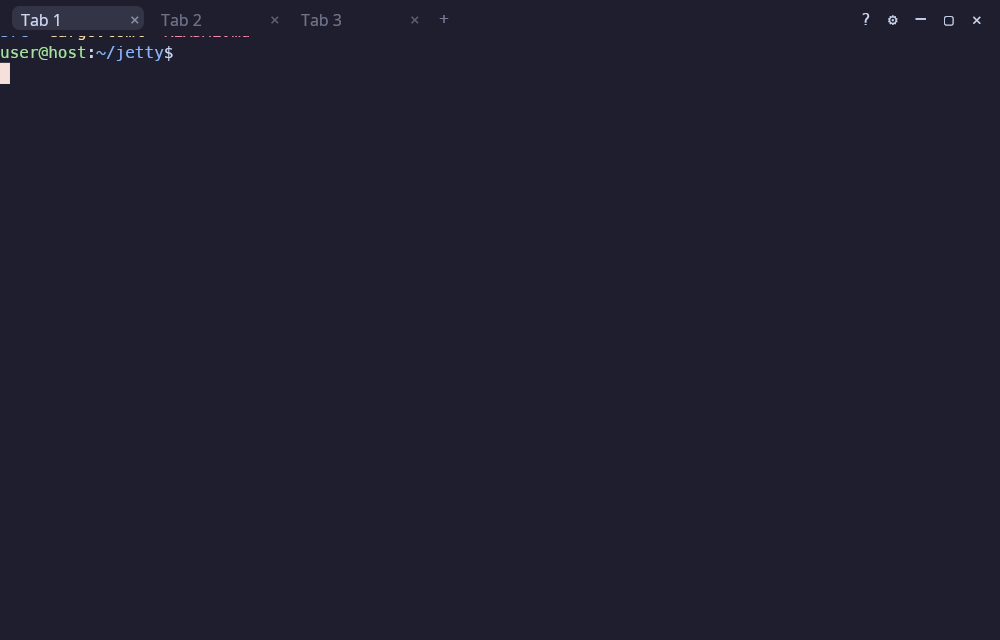
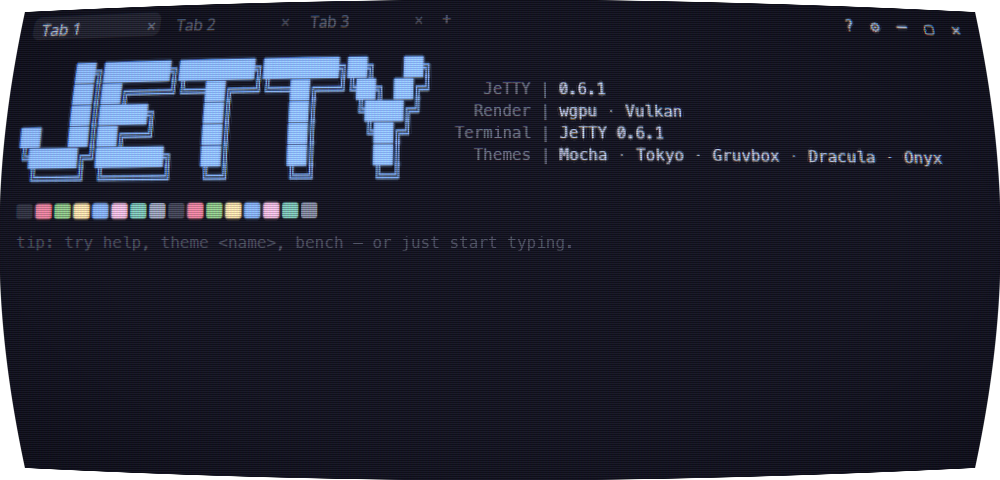
docs(screenshots): CRT neofetch hero + CRT showcase; jetty-shot gains a CRT hook
- jetty-shot: new JETTY_SHOT_CRT post-process pass (mirrors the Tier-B sample→
  readback pattern) so the CRT look can be captured headlessly; params via
  JETTY_SHOT_CRT_* env.
- hero.png: the neofetch-style welcome splash under the real CRT effect
  (curvature/scanlines/bloom/vignette) — a proper landing image.
- crt.png: CRT over a colorful dev session, added to the README screenshots.
- README: add a "Visual effects" feature bullet (CRT + caret), drop the stale
  "screenshots pending regeneration" note.

Claude-Session: https://claude.ai/code/session_01P5Hns5NnhtKtvKWA9XUAxx

diff --git a/crates/jetty-app/src/bin/jetty-shot.rs b/crates/jetty-app/src/bin/jetty-shot.rs
@@ -565,6 +565,50 @@ fn main() -> Result<(), Box<dyn std::error::Error>> {
         None
     };
 
+    // --- CRT post-process (JETTY_SHOT_CRT) ---
+    // Run the REAL CRT GPU pass (curvature/scanlines/shadow-mask/bloom/chromatic/
+    // vignette) onto a SECOND texture, sampling the rendered scene — mirroring the
+    // Tier-B sample-then-readback pattern. Lets the harness capture the CRT look
+    // headlessly (e.g. the neofetch hero). Params are env-overridable.
+    let crt_tex = if std::env::var("JETTY_SHOT_CRT").is_ok() {
+        let getf = |k: &str, d: f32| std::env::var(k).ok().and_then(|s| s.parse::<f32>().ok()).unwrap_or(d);
+        let ct = device.create_texture(&wgpu::TextureDescriptor {
+            label: Some("jetty-shot-crt"),
+            size: wgpu::Extent3d { width, height, depth_or_array_layers: 1 },
+            mip_level_count: 1,
+            sample_count: 1,
+            dimension: wgpu::TextureDimension::D2,
+            format,
+            usage: wgpu::TextureUsages::RENDER_ATTACHMENT | wgpu::TextureUsages::COPY_SRC,
+            view_formats: &[],
+        });
+        let ct_view = ct.create_view(&wgpu::TextureViewDescriptor::default());
+        // Sample the current scene: the Tier-B output if one ran, else the frame.
+        let src_view = match &tier_b_tex {
+            Some(t) => t.create_view(&wgpu::TextureViewDescriptor::default()),
+            None => texture.create_view(&wgpu::TextureViewDescriptor::default()),
+        };
+        eprintln!("jetty-shot: applying CRT post-process (GPU pass)");
+        let crt = jetty_render::Crt::new(&device, format);
+        crt.apply(&device, &queue, &ct_view, &src_view, width, height, &jetty_render::CrtUniform {
+            resolution: [width as f32, height as f32],
+            curvature: getf("JETTY_SHOT_CRT_CURVATURE", 0.24),
+            scanline: getf("JETTY_SHOT_CRT_SCANLINE", 0.55),
+            mask: getf("JETTY_SHOT_CRT_MASK", 0.32),
+            bloom: getf("JETTY_SHOT_CRT_BLOOM", 0.45),
+            chromatic: getf("JETTY_SHOT_CRT_CHROMATIC", 0.22),
+            vignette: getf("JETTY_SHOT_CRT_VIGNETTE", 0.45),
+            tint: [1.0, 1.0, 1.0, 0.0],
+            corner_radius: getf("JETTY_SHOT_CRT_RADIUS", 0.0),
+            time: 0.0,
+            flags: 0,
+            _pad0: 0.0,
+        });
+        Some(ct)
+    } else {
+        None
+    };
+
     // --- Read back to CPU ---
     // wgpu requires bytes_per_row to be a multiple of 256.
     let unpadded = width * 4;
@@ -584,7 +628,7 @@ fn main() -> Result<(), Box<dyn std::error::Error>> {
     // Read back the Tier-B effect output when one ran (it sampled `texture` and
     // wrote the displaced/blurred result into its own texture); otherwise the
     // scene texture itself.
-    let readback_tex = tier_b_tex.as_ref().unwrap_or(&texture);
+    let readback_tex = crt_tex.as_ref().or(tier_b_tex.as_ref()).unwrap_or(&texture);
     encoder.copy_texture_to_buffer(
         wgpu::TexelCopyTextureInfo {
             texture: readback_tex,

diff --git a/README.md b/README.md
@@ -43,6 +43,7 @@
   - **Center** — drops into the middle of your screen.
   - **Dropdown** — slides down from the top edge, full screen width, Yakuake/Guake style, with adjustable width & height.
 - ✨ **Summon effects** — five self-written GPU reveal shaders, selectable in settings: **Phosphor Ignition** (default — CRT power-on), **Bayer Crystallize**, **Liquid Drop**, **Focus Pull**, or **None**.
+- 📺 **Visual effects** — an optional **CRT** mode (curvature, scanlines, shadow-mask, bloom, chromatic aberration, vignette + animated roll/flicker/jitter) and a **caret flash/glow**, all under a dedicated **Effects** settings tab. Off by default, so the default look and ~0% idle CPU are untouched.
 - 🗂️ **Tabs** — `Ctrl+Shift+T` new, `Ctrl+Shift+W` close (with confirm), `Ctrl+Tab` / `Ctrl+1‒9` switch, double-click to rename.
 - 🎨 **5 beloved themes** — Catppuccin Mocha (default), Tokyo Night, Gruvbox Dark, Dracula, and Onyx, with exact community palettes. Every UI surface (panel, menus, tab bar, welcome, confirm dialogs) re-skins with the active theme.
 - 🪟 **Custom-decorated window** — borderless client-side decorations, our own title bar, rounded corners (radius slider), runtime opacity.
@@ -64,11 +65,13 @@
 | **Onyx** | **Settings (theme cards)** |
 | <img src="assets/screenshots/onyx.png" width="400"> | <img src="assets/screenshots/settings.png" width="400"> |
 
-| Summon effect (Phosphor Ignition) | Live perf HUD |
+| CRT effect (curvature · scanlines · bloom · vignette) | Summon effect (Phosphor Ignition) |
 |:---:|:---:|
-| <img src="assets/screenshots/phosphor.png" width="400"> | <img src="assets/screenshots/perf-hud.png" width="400"> |
+| <img src="assets/screenshots/crt.png" width="400"> | <img src="assets/screenshots/phosphor.png" width="400"> |
 
-*(Screenshots pending regeneration for Onyx, perf-HUD, and updated settings panel — see `docs/perf-budget.md` for the regeneration commands.)*
+| Live perf HUD | |
+|:---:|:---:|
+| <img src="assets/screenshots/perf-hud.png" width="400"> | |
 
 ## 🚀 Install
 